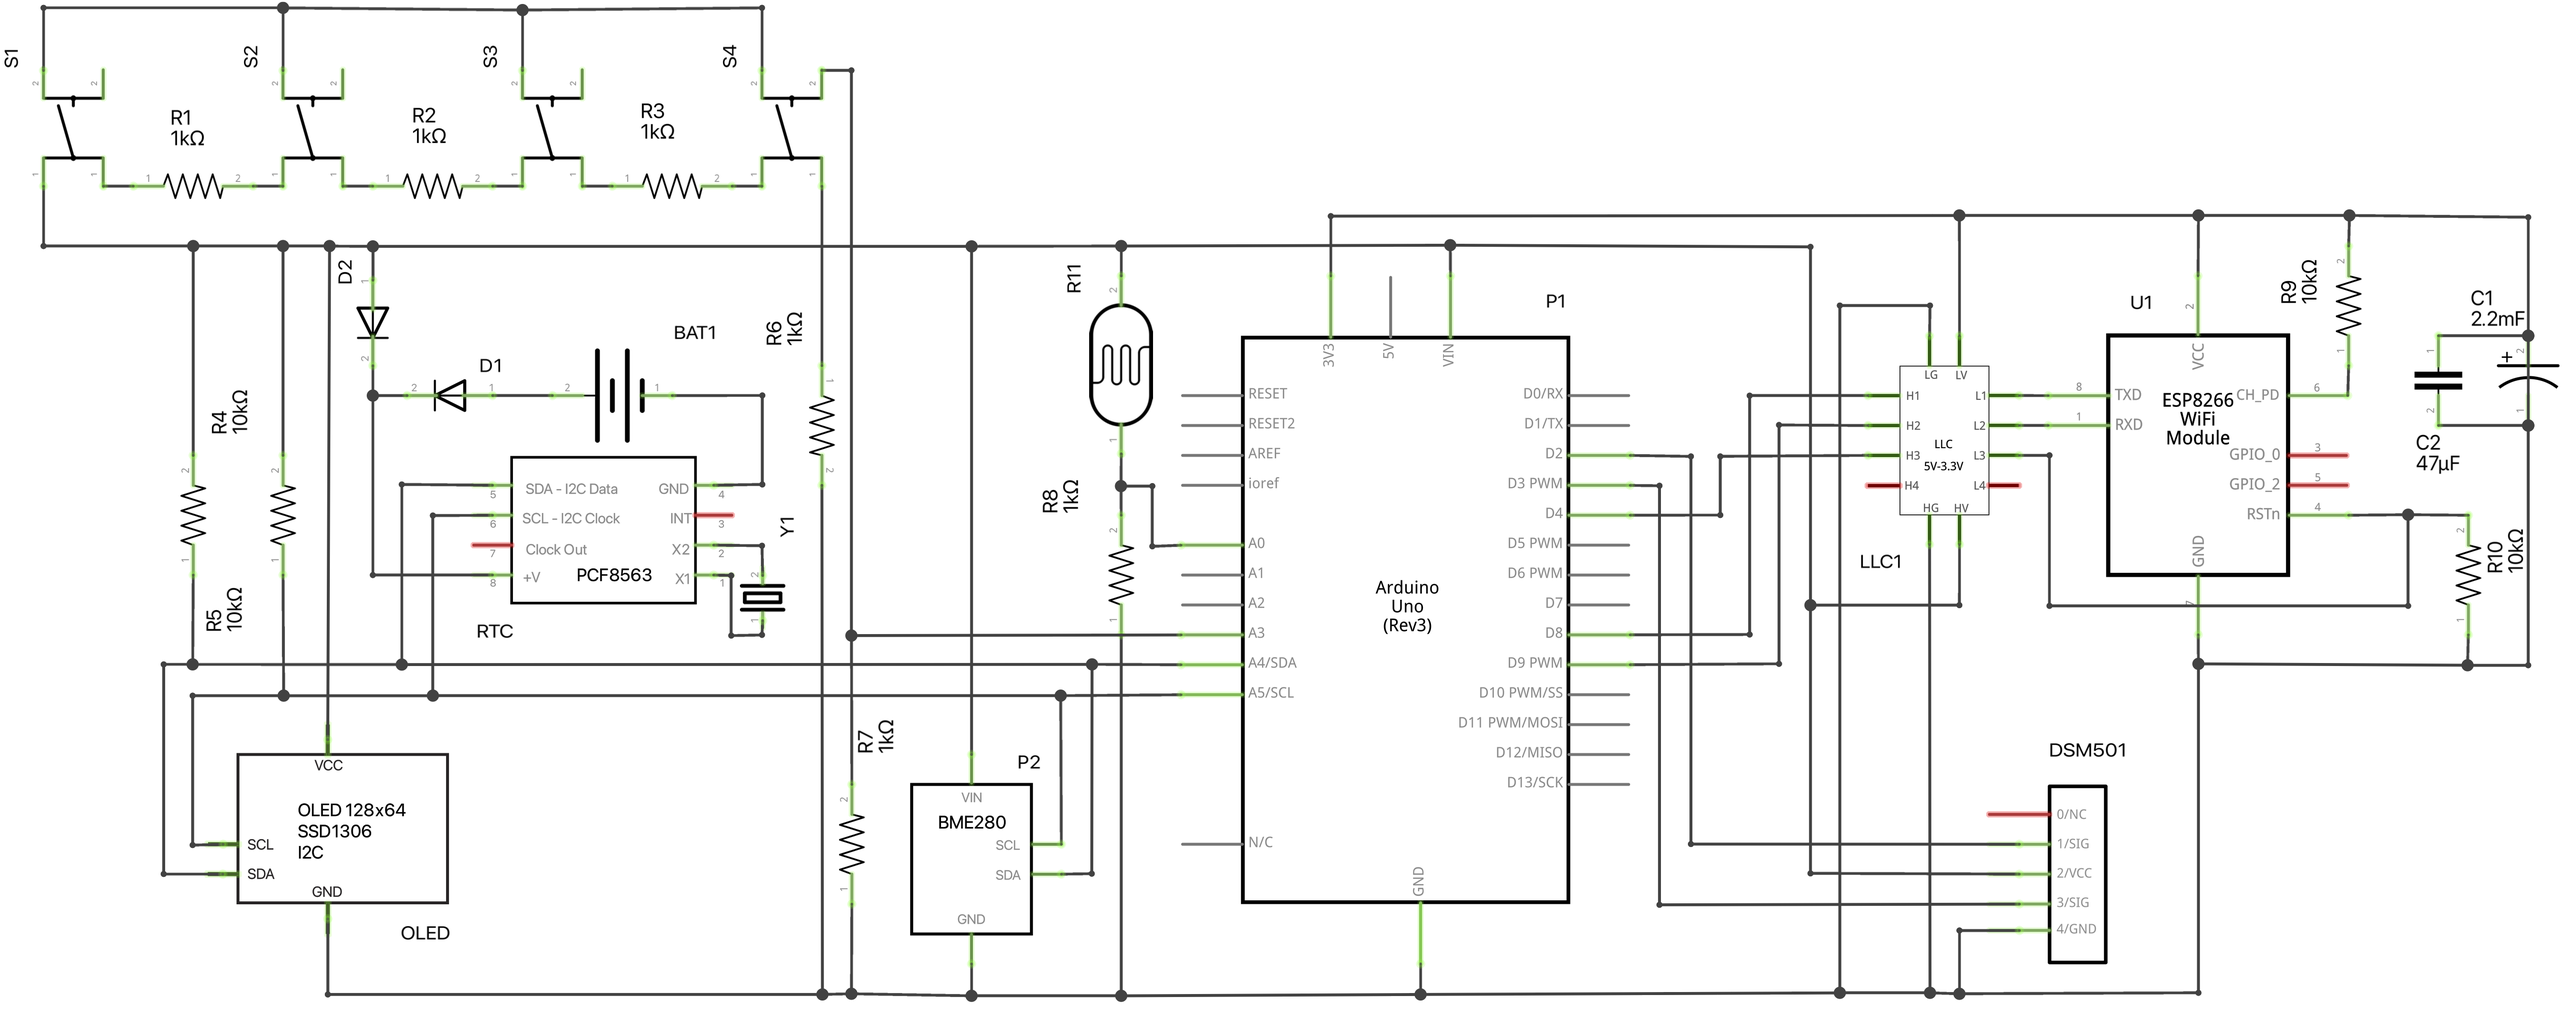
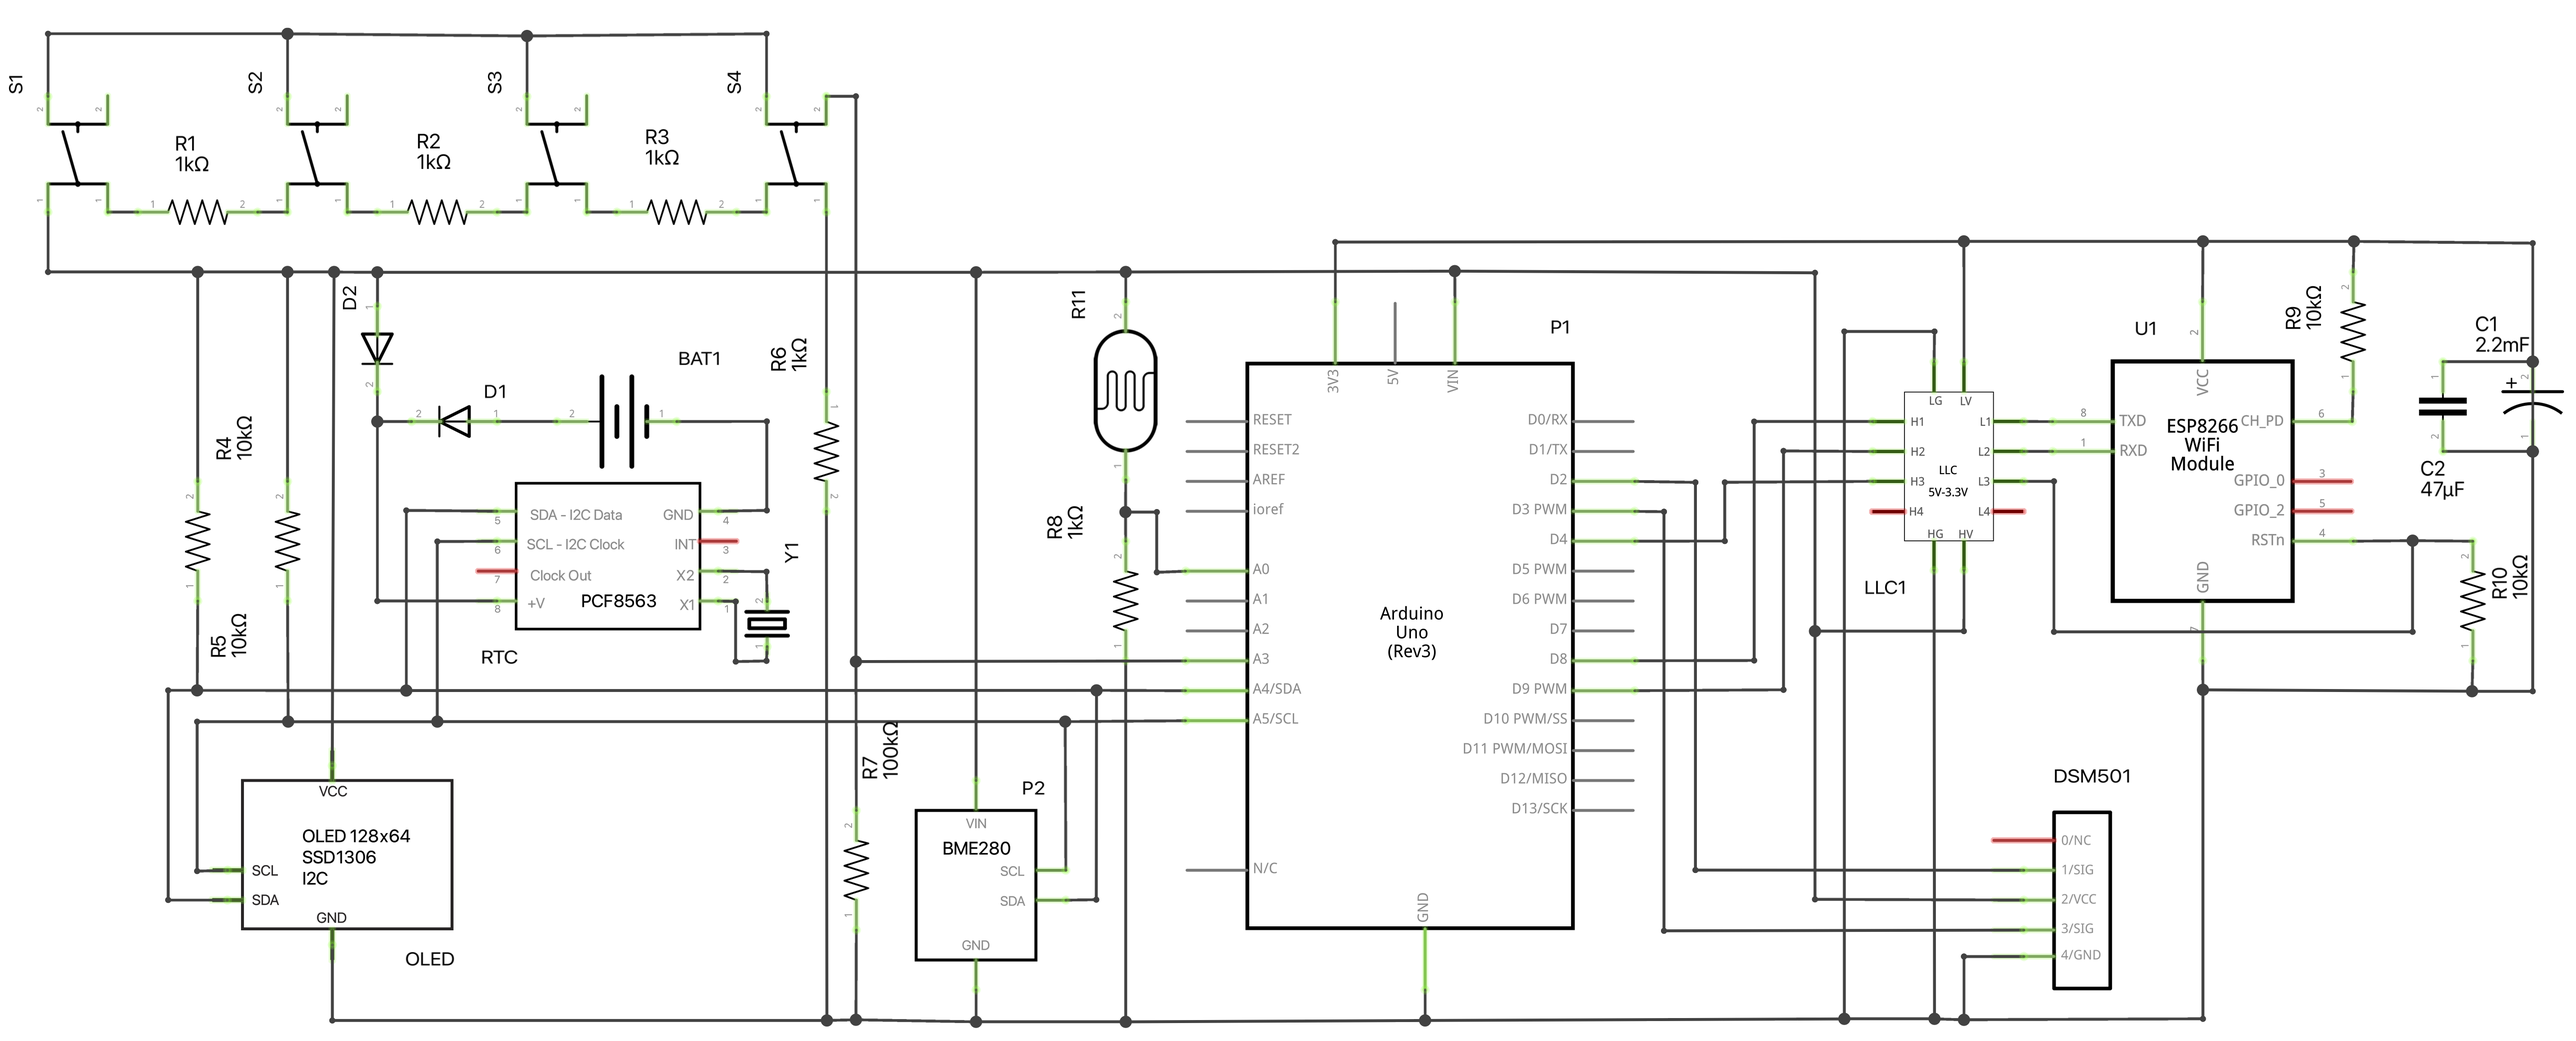
Fix wrong pull-down resistor value for button network

diff --git a/SensorPod/README.md b/SensorPod/README.md
@@ -38,7 +38,7 @@ label|part
 |R4|10kΩ resistor|
 |R5|10kΩ resistor|
 |R6|1kΩ resistor|
-|R7|1kΩ resistor|
+|R7|100kΩ resistor|
 |R8|1kΩ resistor|
 |R9|10kΩ resistor|
 |R10|10kΩ resistor|
